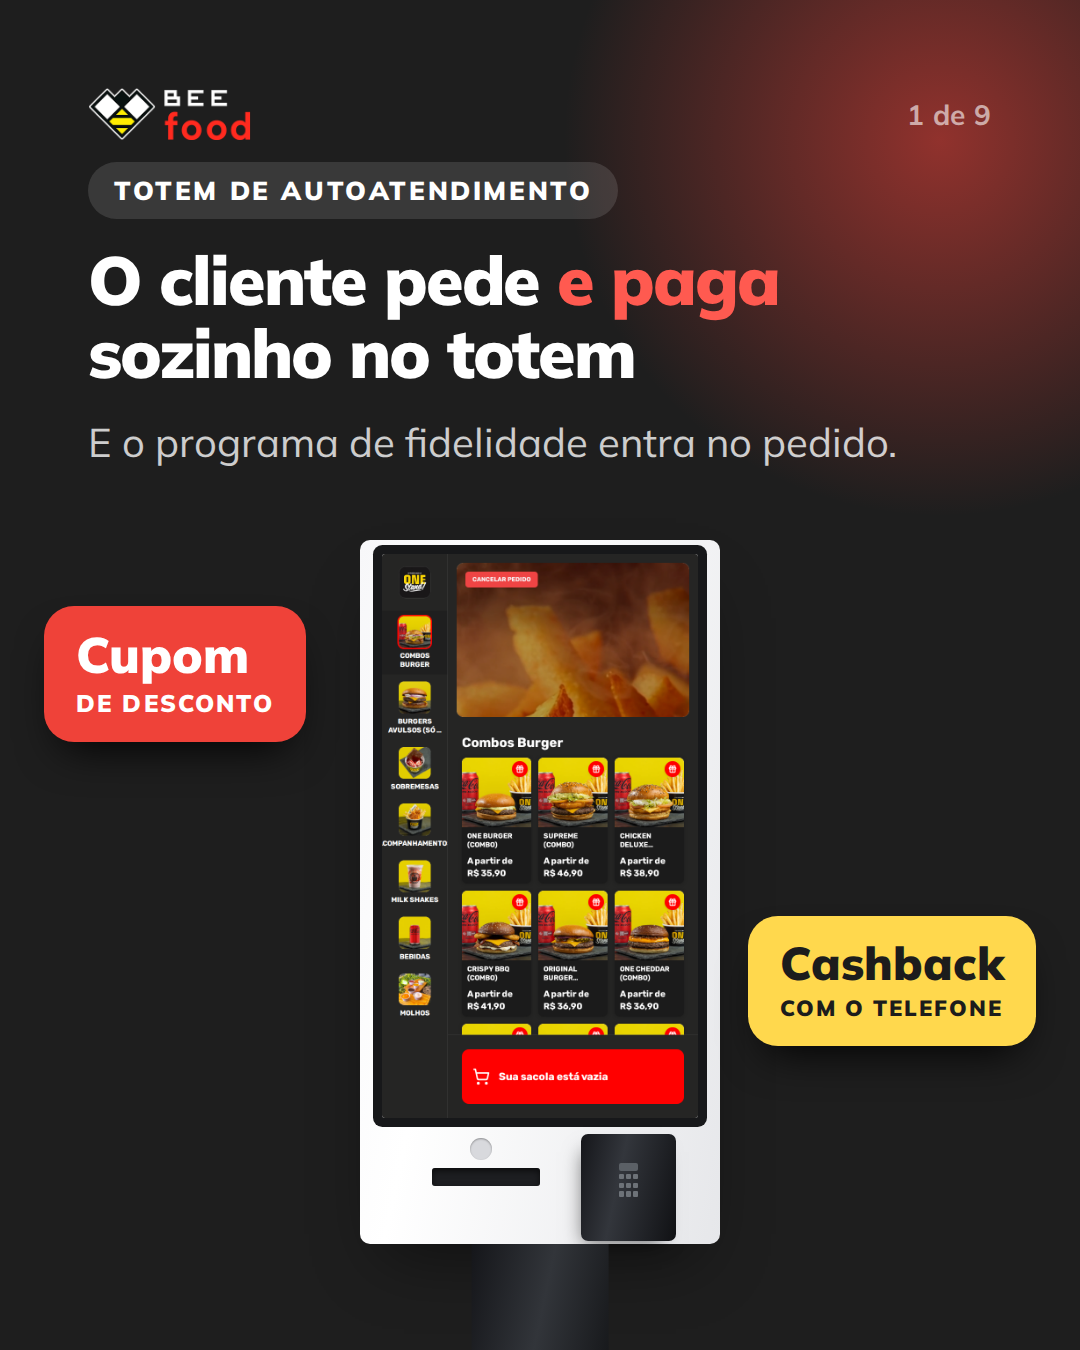
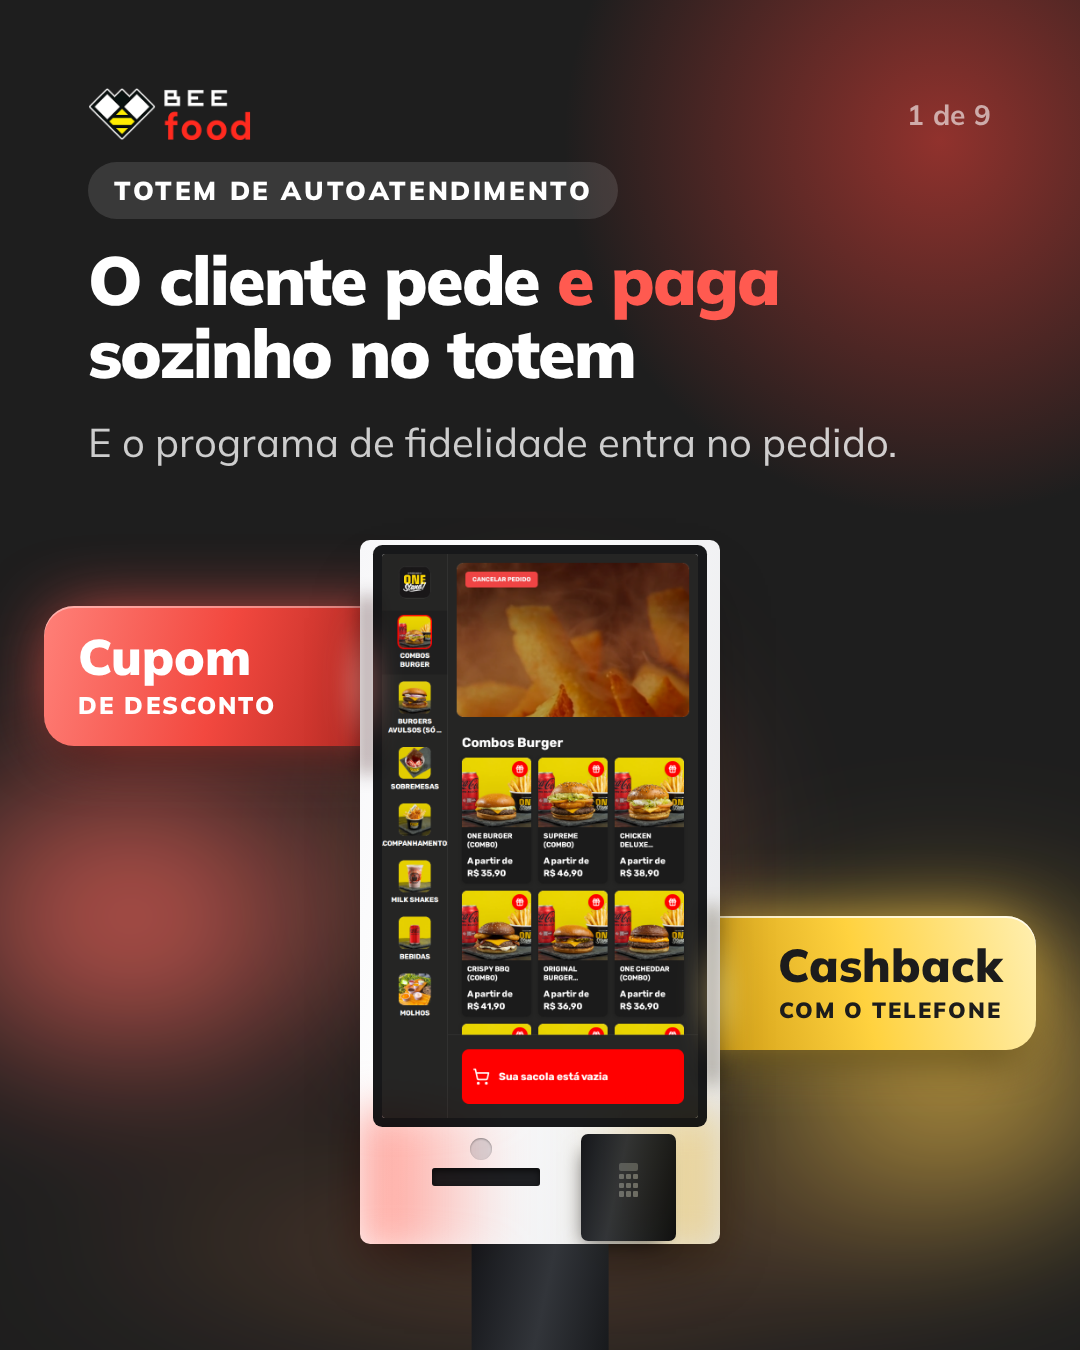
Capa: os selos entram atras do totem, e a luz do aparelho banha a cena

diff --git a/carrosseis/totem-autoatendimento/slides/01-capa.html b/carrosseis/totem-autoatendimento/slides/01-capa.html
@@ -13,7 +13,7 @@
 
      Na tela vai o CARDAPIO, e nao a tela de espera. A regra e da skill: na capa,
      tela cheia ganha de tela icone — a de espera e uma foto com um botao, e
-     dentro de um aparelho de 400 px vira uma mancha escura com um risco
+     dentro de um aparelho de 360 px vira uma mancha escura com um risco
      vermelho. O cardapio tem foto, nome e preco em nove cartoes, e le como
      "aqui se compra" mesmo pequeno. A tela de espera passou para o CTA, que e
      onde o aparelho voltando a esperar o proximo cliente faz sentido.
@@ -23,27 +23,46 @@
      inteiro dentro do slide; quem sai pela base e a coluna, que a borda de
      baixo transforma em chao.
 
-     Os dois selos ao lado do aparelho sao a promessa da peca: sem eles a capa
-     anuncia menos do que o carrossel entrega. Eles sao DESENHADOS, com o texto
-     e a cor da interface, e nao recortados dela — o recorte real da linha de
-     cupom tem 1032 px e, reduzido para caber nesta coluna, fica com 11 px de
+     ====================================================================
+     OS DOIS SELOS, E POR QUE ELES SAO CENA E NAO ETIQUETA
+     ====================================================================
+
+     Eles anunciam o que a peca entrega alem do pedido. Sao DESENHADOS, com a
+     cor que a interface usa, e nao recortados da tela: o recorte real da linha
+     de cupom tem 1032 px e, reduzido para caber nesta coluna, fica com 11 px de
      letra; aumentado, cobre o vidro, ou seja, nome e preco de produto.
 
      Cada selo tem DUAS ALTURAS: o nome do recurso grande, para ser lido na
-     miniatura do feed, e o complemento em caixa alta pequena. Selo de uma
-     linha so cabe em corpo 22 nesta coluna, e corpo 22 ao lado de um titulo de
-     68 nao e promessa, e legenda.
+     miniatura do feed, e o complemento em caixa alta pequena. Selo de uma linha
+     so cabe em corpo 22 nesta coluna, e corpo 22 ao lado de um titulo de 68 nao
+     e promessa, e legenda.
 
      O selo amarelo diz CASHBACK, e nao "5% de cashback". Os 5% sao a
      configuracao da loja de exemplo: dentro da captura do slide 6 eles saem da
-     tela dela, mas num selo desenhado sairiam da nossa boca — e quem lê
-     entenderia que o sistema define a porcentagem. Numero que o lojista
-     configura nao vira manchete de capa.
+     tela dela, mas num selo desenhado sairiam da nossa boca — e quem le
+     entenderia que o sistema define a porcentagem.
 
-     Eles nao encostam no vidro: nesta altura do aparelho sobram 12 px de
-     carcaca de cada lado, entao o lugar deles e o fundo escuro, com folga.
-     Sobreposicao em cima de coisa decorativa vira profundidade, em cima de
-     rotulo vira defeito. -->
+     A primeira versao deles era texto com um painel atras, e o retorno foi
+     exatamente esse. O que resolveu nao foi mais efeito, foi OCLUSAO: cada selo
+     e uma `.selo-recurso--encaixado`, entra ~60 px atras da carcaca e a
+     silhueta do aparelho corta a ponta. O gradiente escurece para essa ponta,
+     porque tab que dobra para tras entra na sombra do totem.
+
+     A luz vem depois, e tem tres camadas, cada uma com o seu modo de mistura:
+
+     1. `.luz` da TELA, atras do aparelho: o cardaipio e uma tela acesa, e tela
+        acesa derrama no escuro. E o que faz o totem parecer ligado;
+     2. `.luz` UNICA no pe, que vai do vermelho do cupom ao amarelo do cashback.
+        Duas pocas separadas deixavam dois adesivos em cenas diferentes; uma luz
+        so poe os dois na mesma cena;
+     3. `.luz--tinta` na CARCACA: `screen` sobre branco nao faz nada, entao o
+        painel e tingido com `multiply` — vermelho do lado do cupom, ambar do
+        lado do cashback. E esta a camada que prova que a luz bate no aparelho,
+        e nao so no fundo.
+
+     Mais a sombra de contato na quina, sem a qual o selo encosta no aparelho
+     mas nao entra nele. Nenhuma das camadas passa por cima do VIDRO: ali mora
+     nome e preco de produto, e lavar a tela e perder a unica prova da capa. -->
 
 <div class="slide slide--capa">
   <div class="topo">
@@ -57,6 +76,50 @@
       O cliente pede <span class="destaque">e paga</span><br>sozinho no totem
     </h1>
     <p class="subtitulo">E o programa de fidelidade entra no pedido.</p>
+  </div>
+
+  <!-- 1. A tela acesa derrama no escuro. -->
+  <div class="luz" style="left: 50%; top: 500px; width: 700px; height: 760px;
+                          margin-left: -350px; filter: blur(52px);
+                          background: radial-gradient(ellipse 42% 46% at 50% 48%,
+                                      rgba(255, 168, 112, 0.5) 0%,
+                                      rgba(255, 110, 70, 0.16) 58%,
+                                      rgba(0, 0, 0, 0) 80%)"></div>
+
+  <!-- 2. Uma luz so, do vermelho do cupom ao ambar do cashback. -->
+  <div class="luz" style="left: -80px; right: -80px; top: 620px; height: 780px;
+                          filter: blur(60px);
+                          background:
+                            radial-gradient(ellipse 34% 40% at 17% 38%,
+                              rgba(255, 86, 74, 0.8), rgba(0, 0, 0, 0) 70%),
+                            radial-gradient(ellipse 34% 40% at 83% 58%,
+                              rgba(255, 196, 56, 0.74), rgba(0, 0, 0, 0) 70%),
+                            radial-gradient(ellipse 60% 24% at 50% 80%,
+                              rgba(255, 140, 70, 0.28), rgba(0, 0, 0, 0) 72%)"></div>
+
+  <div class="selo-recurso selo-recurso--encaixado"
+       style="left: 44px; top: 606px; padding: 26px 96px 26px 34px;
+              background: linear-gradient(104deg, #ff8078 0%, #f2483f 46%,
+                                          #a3201a 100%);
+              color: #fff;
+              box-shadow: 0 0 70px -12px rgba(255, 90, 80, 0.95),
+                          0 26px 44px -22px #000,
+                          inset 0 2px 0 rgba(255, 255, 255, 0.4)">
+    <span class="selo-recurso__nome">Cupom</span>
+    <span class="selo-recurso__nota">de desconto</span>
+  </div>
+
+  <div class="selo-recurso selo-recurso--encaixado"
+       style="right: 44px; top: 916px; padding: 26px 34px 26px 96px;
+              align-items: flex-end;
+              background: linear-gradient(256deg, #ffefb0 0%, #ffd23f 46%,
+                                          #c08a05 100%);
+              color: #1c1c1c;
+              box-shadow: 0 0 70px -12px rgba(255, 205, 70, 0.95),
+                          0 26px 44px -22px #000,
+                          inset 0 2px 0 rgba(255, 255, 255, 0.75)">
+    <span class="selo-recurso__nome" style="font-size: 46px">Cashback</span>
+    <span class="selo-recurso__nota" style="font-size: 22px">com o telefone</span>
   </div>
 
   <div class="sangria" style="top: 540px; right: auto; left: 50%;
@@ -80,15 +143,40 @@
     </div>
   </div>
 
-  <div class="selo-recurso" style="left: 44px; top: 606px;
-                                   background: var(--primaria); color: #fff">
-    <span class="selo-recurso__nome">Cupom</span>
-    <span class="selo-recurso__nota">de desconto</span>
-  </div>
+  <!-- 3. A luz bate na carcaca. Só sobre o painel, nunca sobre o vidro. -->
+  <div class="luz luz--tinta"
+       style="left: 360px; top: 1110px; width: 360px; height: 145px;
+              filter: blur(22px);
+              background: linear-gradient(90deg,
+                          rgba(255, 128, 116, 0.8) 0%,
+                          rgba(255, 255, 255, 0) 42%,
+                          rgba(255, 255, 255, 0) 60%,
+                          rgba(255, 214, 104, 0.75) 100%)"></div>
 
-  <div class="selo-recurso" style="right: 44px; top: 916px;
-                                   background: #ffd84d; color: #1c1c1c">
-    <span class="selo-recurso__nome" style="font-size: 46px">Cashback</span>
-    <span class="selo-recurso__nota" style="font-size: 22px">com o telefone</span>
-  </div>
+  <!-- O beijo de luz na quina em que o selo some: metade cai no fundo escuro
+       (e acende) e metade na carcaca branca (e nao muda nada). -->
+  <div class="luz" style="left: 330px; top: 590px; width: 54px; height: 190px;
+                          z-index: 2; filter: blur(13px);
+                          background: radial-gradient(ellipse 40% 50% at 60% 50%,
+                                      rgba(255, 150, 140, 0.95),
+                                      rgba(0, 0, 0, 0) 72%)"></div>
+
+  <div class="luz" style="left: 696px; top: 900px; width: 54px; height: 190px;
+                          z-index: 2; filter: blur(13px);
+                          background: radial-gradient(ellipse 40% 50% at 40% 50%,
+                                      rgba(255, 219, 130, 0.95),
+                                      rgba(0, 0, 0, 0) 72%)"></div>
+
+  <!-- Sombra de contato: sem ela o selo encosta no aparelho, mas nao entra. -->
+  <div class="luz luz--tinta"
+       style="left: 360px; top: 596px; width: 30px; height: 178px;
+              filter: blur(9px);
+              background: linear-gradient(90deg, rgba(60, 20, 18, 0.55),
+                          rgba(255, 255, 255, 0) 85%)"></div>
+
+  <div class="luz luz--tinta"
+       style="left: 690px; top: 906px; width: 30px; height: 178px;
+              filter: blur(9px);
+              background: linear-gradient(270deg, rgba(60, 44, 10, 0.5),
+                          rgba(255, 255, 255, 0) 85%)"></div>
 </div>

diff --git a/.cursor/skills/carrossel/assets/slides/base.css b/.cursor/skills/carrossel/assets/slides/base.css
@@ -192,6 +192,59 @@ body {
   text-transform: uppercase;
 }
 
+/* O selo entra ATRAS do mockup, e é o corte que o prende ao aparelho.
+ *
+ * Etiqueta que só encosta continua lendo como adesivo colado na arte. Quando
+ * a silhueta do aparelho **corta** a ponta dela, a cena ganha profundidade sem
+ * nenhum efeito: oclusão é a pista mais forte que existe, e é de graça.
+ *
+ * Três coisas andam juntas, e sem as três o corte lê como erro de layout:
+ *
+ * - `z-index: 0`, abaixo da `.sangria` (que é 1). O selo continua acima do
+ *   fundo e do halo da capa;
+ * - `width` fixo, com a ponta escondida entrando ~60 px atrás da carcaça, e
+ *   **padding maior desse lado** para o texto não correr para debaixo dela;
+ * - gradiente que **escurece para a ponta oculta**, porque tab que dobra para
+ *   trás entra na sombra do aparelho. Sem isso o selo fica chapado e o corte
+ *   vira "faltou espaço".
+ *
+ * A ponta oculta nunca é a que leva o texto: o que some é margem.
+ */
+.selo-recurso--encaixado {
+  z-index: 0;
+  width: 384px;
+}
+
+/* ------------------------------------------------------------------- luz
+ *
+ * Luz é `div` vazio com gradiente, `filter: blur()` e mistura — nunca uma
+ * imagem. Renderiza igual em qualquer máquina e se ajusta com um número.
+ *
+ * O modo de mistura muda com a superfície, e é aqui que a primeira tentativa
+ * falha: `screen` sobre fundo escuro acende, e sobre a carcaça BRANCA do totem
+ * não faz absolutamente nada — branco já é o teto. Quem tinge branco é
+ * `multiply`, que é o `.luz--tinta`.
+ *
+ * | onde a luz cai | classe | z-index |
+ * |---|---|---|
+ * | fundo escuro, atrás do aparelho | `.luz` | 0 |
+ * | carcaça clara do aparelho | `.luz--tinta` | 2, por cima do mockup |
+ *
+ * E `.luz--tinta` só passa por cima de superfície opaca do aparelho (painel,
+ * carcaça). Em cima do vidro ela lava a tela, que é a prova.
+ */
+.luz {
+  position: absolute;
+  z-index: 0;
+  mix-blend-mode: screen;
+  pointer-events: none;
+}
+
+.luz--tinta {
+  z-index: 2;
+  mix-blend-mode: multiply;
+}
+
 /* ------------------------------------------------------------------ textos */
 
 .chapeu {
